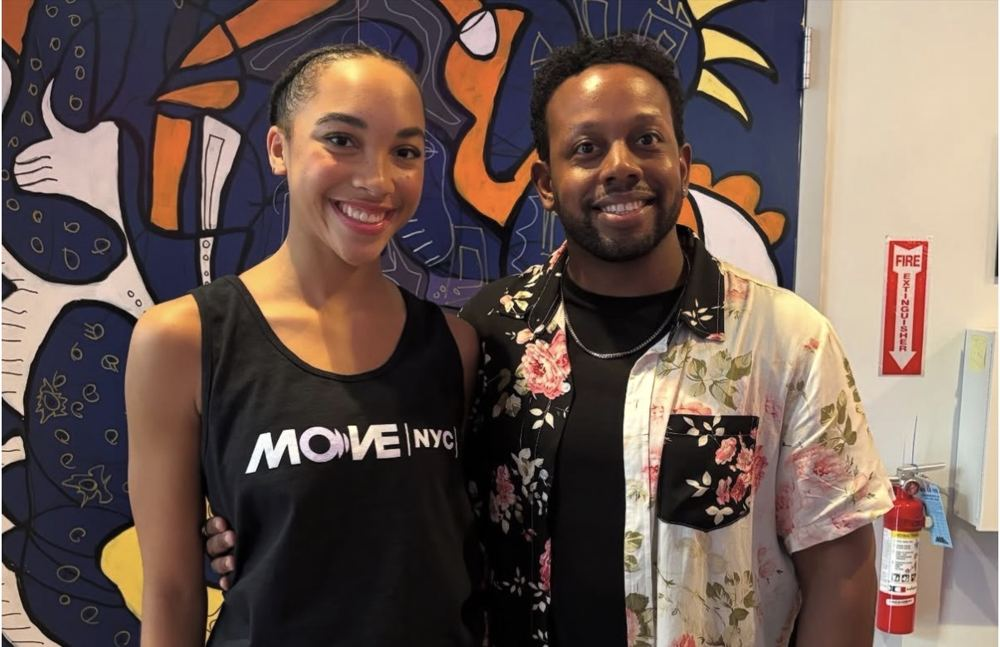
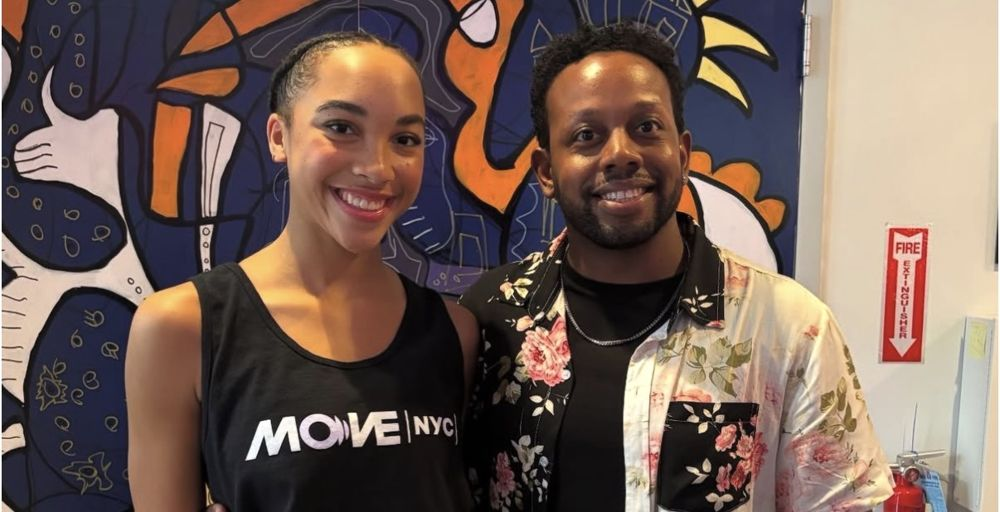
Add files via upload

diff --git a/index.html b/index.html
@@ -1152,7 +1152,7 @@
         </div>
       </div>
       <div class="award-item">
-        <div class="award-hover" style="background-image:url('move-hover.jpg'); background-position:center 30%;"></div>
+        <div class="award-hover" style="background-image:url('move-hover.jpg'); background-position:center;"></div>
         <div class="award-inner">
           <div class="award-icon"></div>
           <div class="award-title">MOVE | NYC |</div>
@@ -1160,7 +1160,7 @@
         </div>
       </div>
       <div class="award-item">
-        <div class="award-hover" style="background-image:url('kennedy-hover.jpg'); background-position:center 10%;"></div>
+        <div class="award-hover" style="background-image:url('kennedy-hover.jpg'); background-position:center 60%;"></div>
         <div class="award-inner">
           <div class="award-icon"></div>
           <div class="award-title">Kennedy Center</div>
